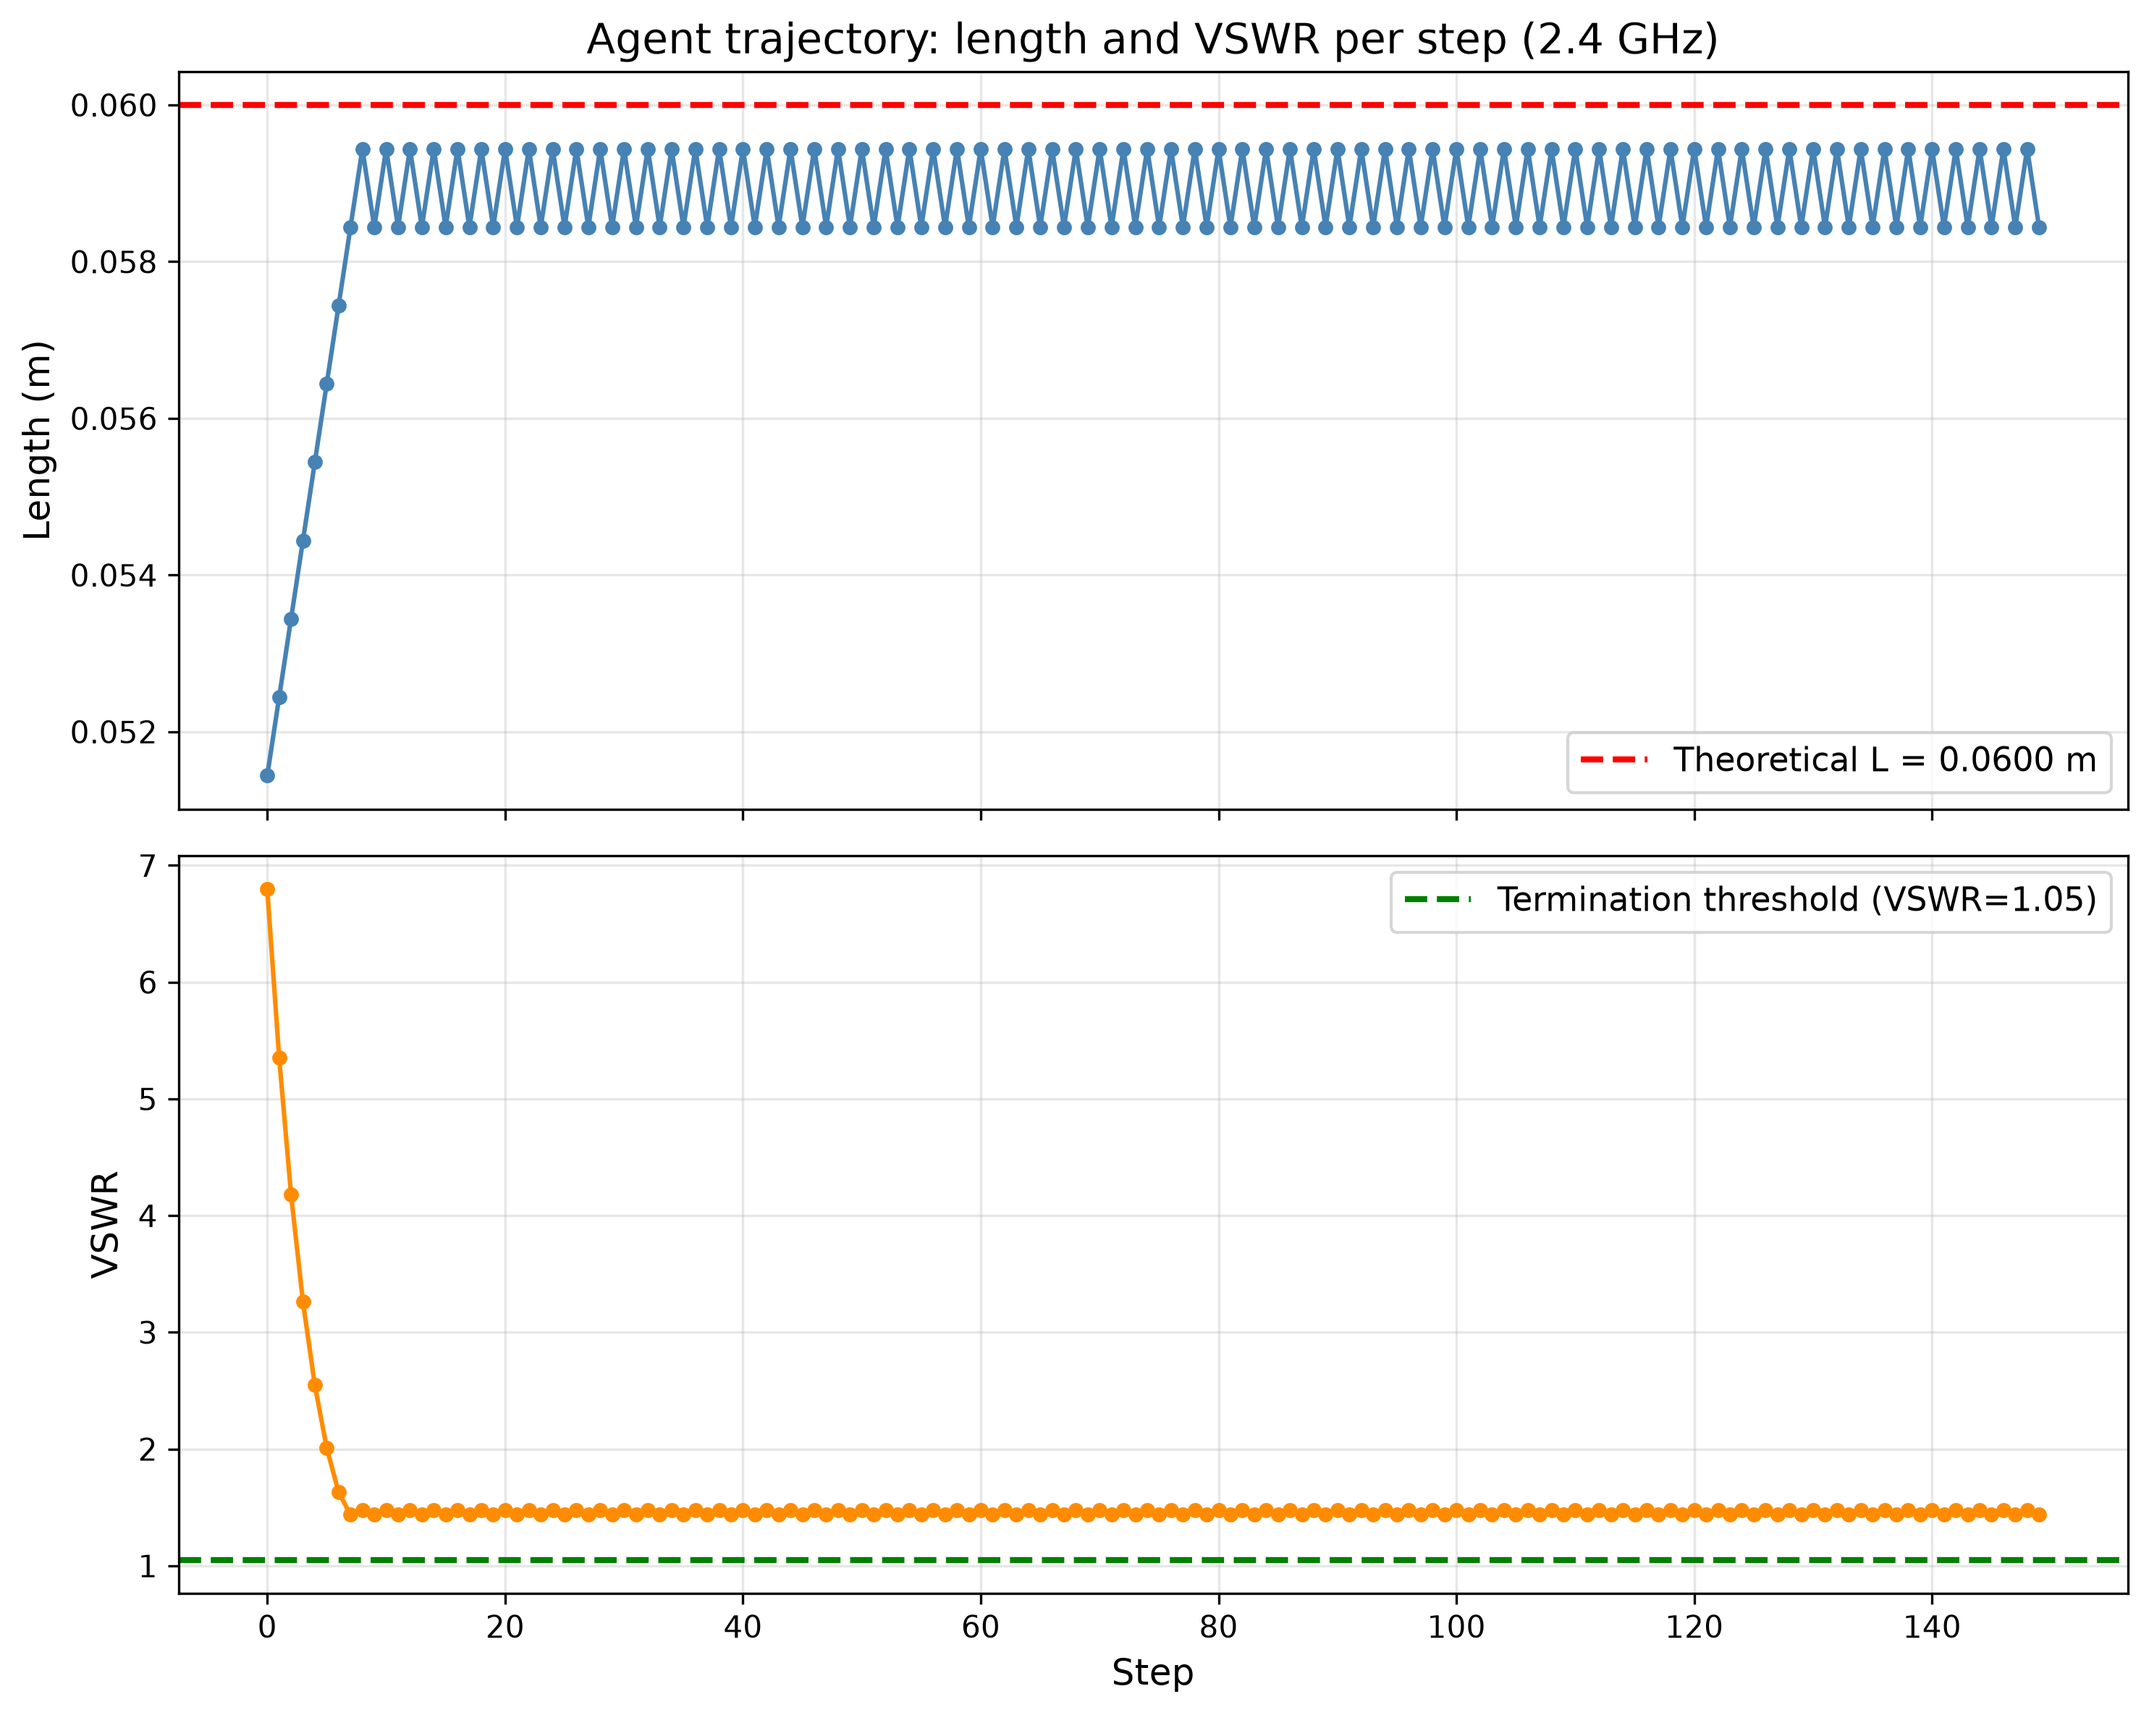
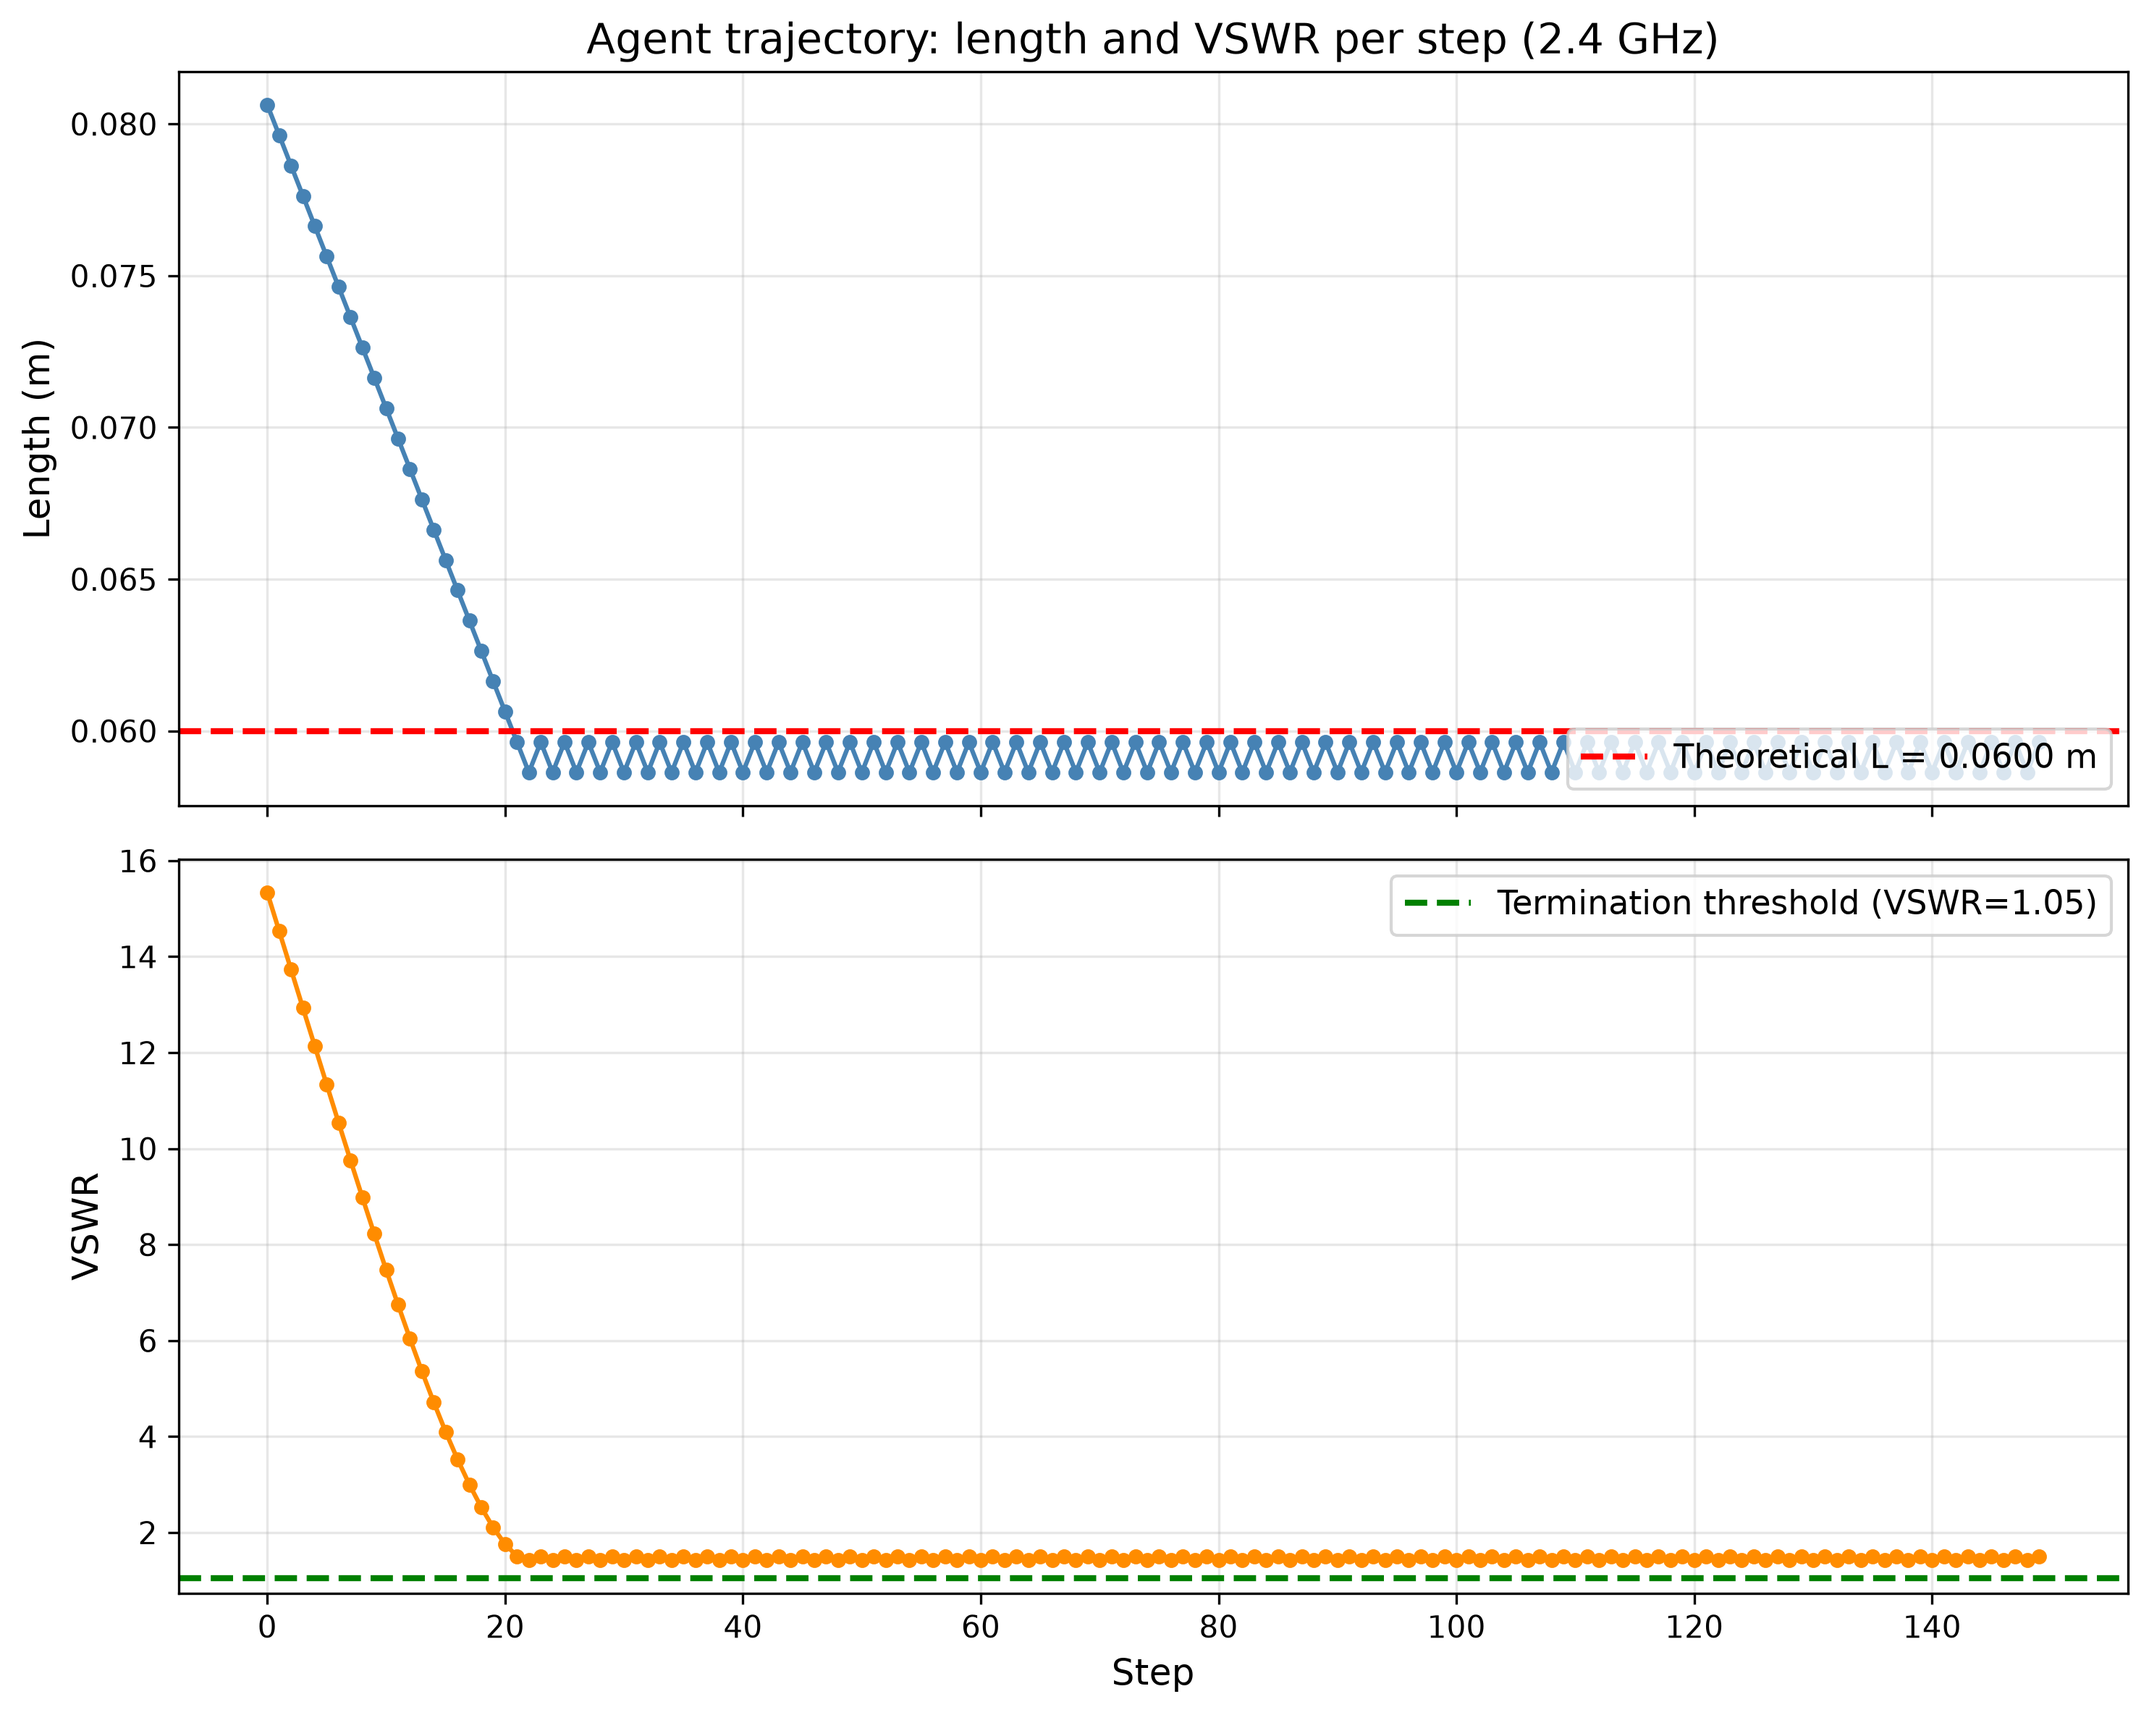
Add seeding to train_dipole.py for reproducibility
Added SEED=42 constant, passed to PPO(seed=SEED).

Full 300k-timestep run with seeding: VSWR=1.4266 at length=0.0586m -
consistent with the previously-established ~1.42-1.44 physical floor
 and now reproducible on demand rather than landing at
a different point in that range each run.

diff --git a/train_dipole.py b/train_dipole.py
@@ -9,6 +9,7 @@ TARGET_FREQ_MHZ = 2400.0
 LENGTH_MIN = 0.03
 LENGTH_MAX = 0.09
 WIRE_RADIUS_M = 0.00015
+SEED = 42
 
 def plot_agent_trajectory(steps, lengths, vswrs, theory_length, output_path="convergence_2_4ghz.png"):
     fig, (ax1, ax2) = plt.subplots(2, 1, figsize=(10, 8), sharex=True)
@@ -45,8 +46,7 @@ def make_env():
 def main():
     train_env = DummyVecEnv([make_env])
     train_env = VecNormalize(train_env, norm_obs=True, norm_reward=True, clip_obs=10.0)
-    model = PPO("MlpPolicy", train_env, verbose=1, n_steps=256, batch_size=64, learning_rate=3e-4, tensorboard_log="tb_logs")
-
+    model = PPO("MlpPolicy", train_env, verbose=1, n_steps=256, batch_size=64, learning_rate=3e-4, tensorboard_log="tb_logs", seed=SEED)
     print("Training PPO agent...")
     model.learn(total_timesteps=300000)
 
